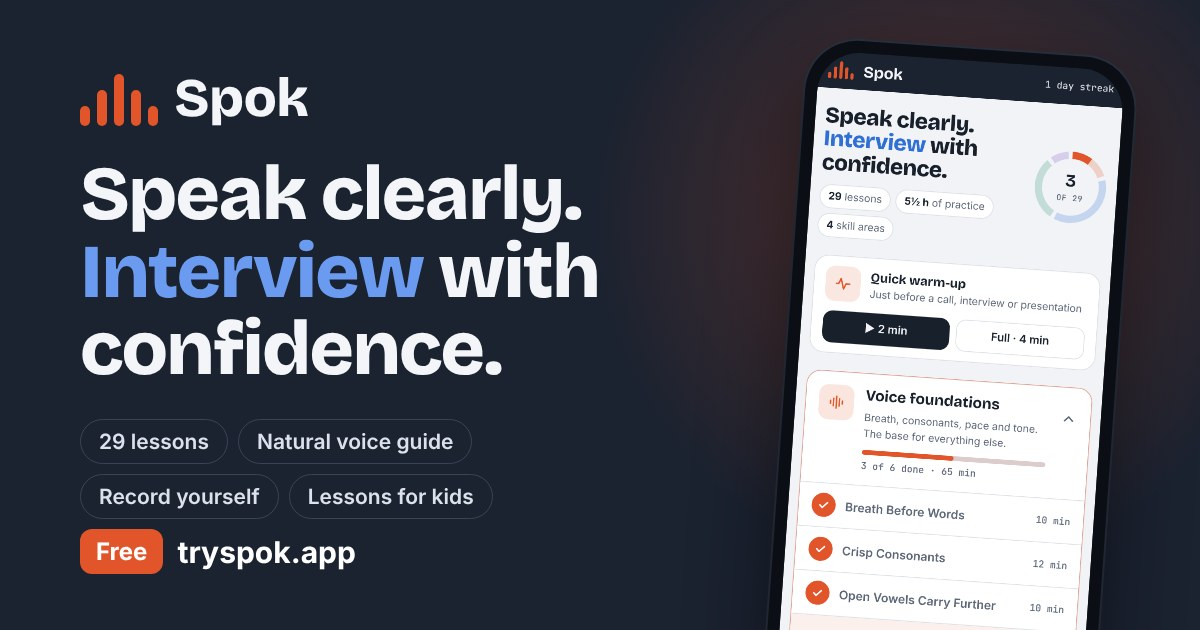
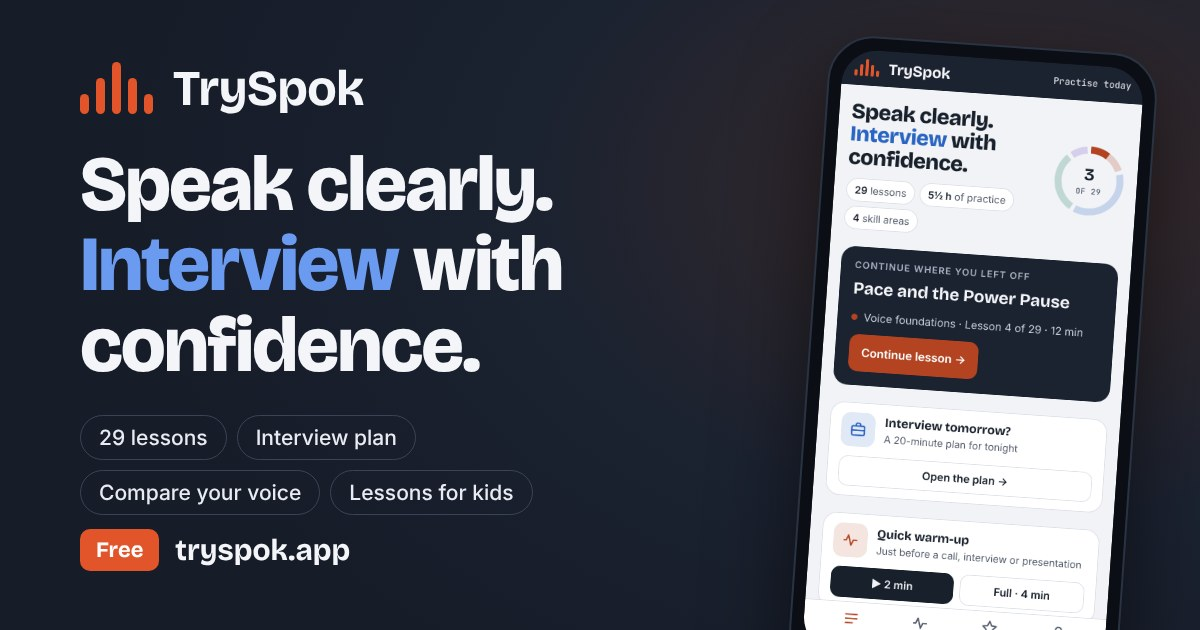
Rename the app to TrySpok
- Name, page titles, share and install metadata, in-app texts, README and tests now say TrySpok
- New share image with the new name and a current screenshot (interview plan, continue card)
- Saved progress and backup files keep their internal 'spok' keys, so nobody loses progress; offline cache bumped

Claude-Session: https://claude.ai/code/session_01KHfWjMHb52pM6n1tJq3jb4

diff --git a/index.html b/index.html
@@ -3,19 +3,19 @@
 <head>
 <meta charset="utf-8">
 <meta name="viewport" content="width=device-width, initial-scale=1, viewport-fit=cover">
-<title>Spok</title>
+<title>TrySpok</title>
 <meta name="claude:viewport-fit-sides" content="cover">
 <meta name="theme-color" content="#1B2230">
 <meta name="description" content="Free app to speak clearly and confidently in interviews and meetings: 29 lessons, a natural voice guide, self-recording and lessons for kids.">
 <meta property="og:type" content="website">
-<meta property="og:site_name" content="Spok">
-<meta property="og:title" content="Spok: speak clearly, interview with confidence">
+<meta property="og:site_name" content="TrySpok">
+<meta property="og:title" content="TrySpok: speak clearly, interview with confidence">
 <meta property="og:description" content="29 short lessons for interviews and meetings, a natural voice guide, self-recording and lessons for kids. Free, no account.">
 <meta property="og:url" content="https://tryspok.app/">
 <meta property="og:image" content="https://tryspok.app/og-image.jpg">
 <meta property="og:image:width" content="1200">
 <meta property="og:image:height" content="630">
-<meta property="og:image:alt" content="Spok app: Speak clearly. Interview with confidence.">
+<meta property="og:image:alt" content="TrySpok app: Speak clearly. Interview with confidence.">
 <meta name="twitter:card" content="summary_large_image">
 <meta name="twitter:image" content="https://tryspok.app/og-image.jpg">
 <link rel="manifest" href="manifest.json">
@@ -722,7 +722,7 @@ function rerender(draw){const y=window.scrollY;stopAll();draw();window.scrollTo(
 function topbar(back,label){
   const n=streak();
   topEl.innerHTML=(back?`<button class="back" id="back">&#8592; ${label||"Lessons"}</button>`:
-   `<div class="logo" aria-hidden="true"><i style="height:8px"></i><i style="height:15px"></i><i style="height:22px"></i><i style="height:15px"></i><i style="height:8px"></i></div><div class="brand">Spok</div>`)+
+   `<div class="logo" aria-hidden="true"><i style="height:8px"></i><i style="height:15px"></i><i style="height:22px"></i><i style="height:15px"></i><i style="height:8px"></i></div><div class="brand">TrySpok</div>`)+
    `<div class="spacer"></div><div class="streak">${n===0?"Practise today":n===1?"1 day streak":n+" day streak"}</div>`;
   if(back) $("#back").onclick=()=>go(back===true?"home":back);
 }
@@ -944,24 +944,24 @@ const IN_APP=/FBAN|FBAV|FB_IAB|Instagram|Messenger|LinkedInApp|Snapchat|TikTok|L
 const IN_FRAME=(()=>{try{return window.top!==window.self;}catch(e){return true;}})();
 const STANDALONE=(()=>{try{return matchMedia("(display-mode: standalone)").matches||navigator.standalone===true;}catch(e){return false;}})();
 function micHelp(kind){
-  if(kind==="frame") return "The microphone is blocked in this preview. Open Spok from its own website (for example tryspok.app) to record yourself.";
+  if(kind==="frame") return "The microphone is blocked in this preview. Open TrySpok from its own website (for example tryspok.app) to record yourself.";
   if(kind==="inapp") return IS_IOS
     ? "This app's built-in browser blocks the microphone. Tap ⋯ or the share icon and choose \"Open in Safari\", then try again."
     : "This app's built-in browser blocks the microphone. Tap ⋮ and choose \"Open in Chrome\", then try again.";
   if(kind==="denied") return IS_IOS
     ? (STANDALONE
-      ? "Microphone access is off. Open Settings → Safari → Microphone and choose Ask or Allow. Then close Spok completely and open it again."
+      ? "Microphone access is off. Open Settings → Safari → Microphone and choose Ask or Allow. Then close TrySpok completely and open it again."
       : "Microphone access is off. In Safari, tap \"aA\" in the address bar → Website Settings → Microphone → Allow. Or open Settings → Safari → Microphone → Allow. Then reload the page.")
     : IS_ANDROID
       ? "Microphone access is off. Tap the icon to the left of the address → Permissions → Microphone → Allow. If that doesn't help, open Settings → Apps → Chrome → Permissions → Microphone → Allow. Then reload."
       : "Microphone access is off. Click the icon to the left of the address, allow the microphone, then reload the page.";
   if(kind==="busy") return "The microphone is busy in another app. End any call or voice recording, then try again.";
   if(kind==="none") return "No microphone was found on this device.";
-  if(kind==="insecure") return "Recording needs a secure https address. Open Spok from its https website.";
+  if(kind==="insecure") return "Recording needs a secure https address. Open TrySpok from its https website.";
   if(kind==="unsupported") return IS_IOS
     ? "This version of iOS can't record in the browser. Update iOS (14.5 or later), or use Voice Memos alongside the timer."
     : "This browser can't record audio. Use the latest Chrome, or your phone's voice recorder alongside the timer.";
-  return "The microphone didn't start. Close other apps using it, reload Spok and try again.";
+  return "The microphone didn't start. Close other apps using it, reload TrySpok and try again.";
 }
 // Why recording can't start, or null if it can.
 function micPrecheck(){
@@ -1410,17 +1410,17 @@ function about(){
         <label for="fname" class="tip">Your name (optional)</label>
         <input id="fname" class="vsel" autocomplete="name">
         <label for="fmsg" class="tip">Message</label>
-        <textarea id="fmsg" placeholder="What would make Spok better for you?"></textarea>
+        <textarea id="fmsg" placeholder="What would make TrySpok better for you?"></textarea>
       </div>
       <div class="row"><button class="btn dark" id="fsend">Send by email</button><button class="btn ghost small" id="fcopy">Copy message</button></div>
       <p class="tip" id="fstat" aria-live="polite"></p>
     </div>
-    <div class="card support"><h2 class="eyebrow">Support Spok</h2>
-      <p>Spok is free, with no ads and no account. If it helped you before an interview or a big meeting, you can support my personal projects.</p>
+    <div class="card support"><h2 class="eyebrow">Support TrySpok</h2>
+      <p>TrySpok is free, with no ads and no account. If it helped you before an interview or a big meeting, you can support my personal projects.</p>
       ${A.donate?`<div class="row"><a class="btn primary" href="${esc(A.donate)}" target="_blank" rel="noopener">${esc(A.donateLabel)} ↗</a></div>`
-        :`<p class="tip">A donation link is coming soon. Until then, sharing Spok with a friend helps a lot.</p>`}
+        :`<p class="tip">A donation link is coming soon. Until then, sharing TrySpok with a friend helps a lot.</p>`}
     </div>
-    <p class="tip">Spok ${APP_VERSION} · Works offline once installed · Progress stays on your device · Voice generated with Kokoro (Apache 2.0)</p>
+    <p class="tip">TrySpok ${APP_VERSION} · Works offline once installed · Progress stays on your device · Voice generated with Kokoro (Apache 2.0)</p>
   </section>`;
   const bstat=t=>$("#bstat").textContent=t;
   $("#bsave").onclick=()=>{try{
@@ -1432,17 +1432,17 @@ function about(){
   $("#bpick").onclick=()=>$("#bload").click();
   $("#bload").onchange=async e=>{const f=e.target.files&&e.target.files[0];e.target.value="";if(!f)return;
     try{const d=JSON.parse(await f.text()), st=d&&d.app==="spok"&&d.state;
-      if(!st||typeof st!=="object"||!Array.isArray(st.days)) throw new Error("not a Spok backup");
+      if(!st||typeof st!=="object"||!Array.isArray(st.days)) throw new Error("not a TrySpok backup");
       if(!confirm("Replace the progress on this device with the backup?")) return;
       state=normalizeState(st);save();about();bstat("Progress restored.");
-    }catch(err){bstat("That file isn't a Spok backup. Choose the .json file saved from Spok.");}};
-  const msg=()=>{const t=$("#ftype").value,n=$("#fname").value.trim(),m=$("#fmsg").value.trim();return {t,n,m,body:`Topic: ${t}\n${n?"From: "+n+"\n":""}\n${m}\n\n— sent from Spok ${APP_VERSION}`};};
+    }catch(err){bstat("That file isn't a TrySpok backup. Choose the .json file saved from TrySpok.");}};
+  const msg=()=>{const t=$("#ftype").value,n=$("#fname").value.trim(),m=$("#fmsg").value.trim();return {t,n,m,body:`Topic: ${t}\n${n?"From: "+n+"\n":""}\n${m}\n\n— sent from TrySpok ${APP_VERSION}`};};
   const stat=t=>$("#fstat").textContent=t;
   const copy=async(text,ok)=>{try{await navigator.clipboard.writeText(text);stat(ok);}catch(e){stat("Copy didn't work here. Select the text and copy it manually.");}};
   if($("#cmail")) $("#cmail").onclick=()=>copy(A.email,"Email address copied.");
   $("#fsend").onclick=()=>{const x=msg(); if(!x.m){stat("Write a message first.");$("#fmsg").focus();return;}
     if(!A.email){copy(x.body,"Message copied.");return;}
-    location.href=`mailto:${A.email}?subject=${encodeURIComponent("Spok feedback: "+x.t)}&body=${encodeURIComponent(x.body)}`;
+    location.href=`mailto:${A.email}?subject=${encodeURIComponent("TrySpok feedback: "+x.t)}&body=${encodeURIComponent(x.body)}`;
     stat(`Your email app should open with the message ready. If it doesn't, tap "Copy message" and send it to ${A.email}.`);};
   $("#fcopy").onclick=()=>{const x=msg(); if(!x.m){stat("Write a message first.");return;} copy(x.body,`Message copied. Paste it into an email to ${A.email}.`);};
 }
@@ -1466,7 +1466,7 @@ function route(){
   window.scrollTo(0,0);
   // name the page and move screen-reader focus to its heading (not on first load)
   const h1=app.querySelector("h1"), name=h1?h1.textContent.replace(/\s+/g," ").trim():"";
-  document.title=h==="home"||!h||!name?"Spok: speak clearly, interview with confidence":name+" · Spok";
+  document.title=h==="home"||!h||!name?"TrySpok: speak clearly, interview with confidence":name+" · TrySpok";
   if(routed&&h1){h1.tabIndex=-1;h1.focus({preventScroll:true});}
   app.dataset.route=h||"home"; // which page is on screen (used by the tests)
   routed=true;

diff --git a/sw.js b/sw.js
@@ -1,4 +1,4 @@
-const CACHE = 'spok-v11';
+const CACHE = 'spok-v12';
 const ASSETS = ['./', './index.html', './manifest.json', './icon-192.png', './icon-512.png',
   './audio/k1-1.mp3','./audio/k1-2.mp3','./audio/k1-3.mp3','./audio/k1-4.mp3','./audio/k1-5.mp3','./audio/k10-1.mp3','./audio/k10-2.mp3','./audio/k10-3.mp3','./audio/k10-4.mp3','./audio/k10-5.mp3','./audio/k11-1.mp3','./audio/k11-2.mp3','./audio/k11-3.mp3','./audio/k11-4.mp3','./audio/k11-5.mp3','./audio/k12-1.mp3','./audio/k12-2.mp3','./audio/k12-3.mp3','./audio/k12-4.mp3','./audio/k12-5.mp3','./audio/k2-1.mp3','./audio/k2-2.mp3','./audio/k2-3.mp3','./audio/k2-4.mp3','./audio/k2-5.mp3','./audio/k3-1.mp3','./audio/k3-2.mp3','./audio/k3-3.mp3','./audio/k3-4.mp3','./audio/k3-5.mp3','./audio/k4-1.mp3','./audio/k4-2.mp3','./audio/k4-3.mp3','./audio/k4-4.mp3','./audio/k4-5.mp3','./audio/k5-1.mp3','./audio/k5-2.mp3','./audio/k5-3.mp3','./audio/k5-4.mp3','./audio/k5-5.mp3','./audio/k6-1.mp3','./audio/k6-2.mp3','./audio/k6-3.mp3','./audio/k6-4.mp3','./audio/k6-5.mp3','./audio/k7-1.mp3','./audio/k7-2.mp3','./audio/k7-3.mp3','./audio/k7-4.mp3','./audio/k7-5.mp3','./audio/k8-1.mp3','./audio/k8-2.mp3','./audio/k8-3.mp3','./audio/k8-4.mp3','./audio/k8-5.mp3','./audio/k9-1.mp3','./audio/k9-2.mp3','./audio/k9-3.mp3','./audio/k9-4.mp3','./audio/k9-5.mp3','./audio/ki1.mp3','./audio/ki10.mp3','./audio/ki11.mp3','./audio/ki12.mp3','./audio/ki2.mp3','./audio/ki3.mp3','./audio/ki4.mp3','./audio/ki5.mp3','./audio/ki6.mp3','./audio/ki7.mp3','./audio/ki8.mp3','./audio/ki9.mp3','./audio/kt1.mp3','./audio/kt10.mp3','./audio/kt11.mp3','./audio/kt12.mp3','./audio/kt2.mp3','./audio/kt3.mp3','./audio/kt4.mp3','./audio/kt5.mp3','./audio/kt6.mp3','./audio/kt7.mp3','./audio/kt8.mp3','./audio/kt9.mp3','./audio/l1-1.mp3','./audio/l1-2.mp3','./audio/l1-3.mp3','./audio/l1-4.mp3','./audio/l1-5.mp3','./audio/l10-1.mp3','./audio/l10-2.mp3','./audio/l10-3.mp3','./audio/l10-4.mp3','./audio/l10-5.mp3','./audio/l11-1.mp3','./audio/l11-2.mp3','./audio/l11-3.mp3','./audio/l11-4.mp3','./audio/l11-5.mp3','./audio/l12-1.mp3','./audio/l12-2.mp3','./audio/l12-3.mp3','./audio/l12-4.mp3','./audio/l12-5.mp3','./audio/l13-1.mp3','./audio/l13-2.mp3','./audio/l13-3.mp3','./audio/l13-4.mp3','./audio/l13-5.mp3','./audio/l14-1.mp3','./audio/l14-2.mp3','./audio/l14-3.mp3','./audio/l14-4.mp3','./audio/l14-5.mp3','./audio/l15-1.mp3','./audio/l15-2.mp3','./audio/l15-3.mp3','./audio/l15-4.mp3','./audio/l15-5.mp3','./audio/l16-1.mp3','./audio/l16-2.mp3','./audio/l16-3.mp3','./audio/l16-4.mp3','./audio/l16-5.mp3','./audio/l17-1.mp3','./audio/l17-2.mp3','./audio/l17-3.mp3','./audio/l17-4.mp3','./audio/l17-5.mp3','./audio/l18-1.mp3','./audio/l18-2.mp3','./audio/l18-3.mp3','./audio/l18-4.mp3','./audio/l18-5.mp3','./audio/l19-1.mp3','./audio/l19-2.mp3','./audio/l19-3.mp3','./audio/l19-4.mp3','./audio/l19-5.mp3','./audio/l2-1.mp3','./audio/l2-2.mp3','./audio/l2-3.mp3','./audio/l2-4.mp3','./audio/l2-5.mp3','./audio/l20-1.mp3','./audio/l20-2.mp3','./audio/l20-3.mp3','./audio/l20-4.mp3','./audio/l20-5.mp3','./audio/l21-1.mp3','./audio/l21-2.mp3','./audio/l21-3.mp3','./audio/l21-4.mp3','./audio/l21-5.mp3','./audio/l22-1.mp3','./audio/l22-2.mp3','./audio/l22-3.mp3','./audio/l22-4.mp3','./audio/l22-5.mp3','./audio/l23-1.mp3','./audio/l23-2.mp3','./audio/l23-3.mp3','./audio/l23-4.mp3','./audio/l23-5.mp3','./audio/l24-1.mp3','./audio/l24-2.mp3','./audio/l24-3.mp3','./audio/l24-4.mp3','./audio/l24-5.mp3','./audio/l25-1.mp3','./audio/l25-2.mp3','./audio/l25-3.mp3','./audio/l25-4.mp3','./audio/l25-5.mp3','./audio/l26-1.mp3','./audio/l26-2.mp3','./audio/l26-3.mp3','./audio/l26-4.mp3','./audio/l26-5.mp3','./audio/l27-1.mp3','./audio/l27-2.mp3','./audio/l27-3.mp3','./audio/l27-4.mp3','./audio/l27-5.mp3','./audio/l28-1.mp3','./audio/l28-2.mp3','./audio/l28-3.mp3','./audio/l28-4.mp3','./audio/l28-5.mp3','./audio/l29-1.mp3','./audio/l29-2.mp3','./audio/l29-3.mp3','./audio/l29-4.mp3','./audio/l29-5.mp3','./audio/l3-1.mp3','./audio/l3-2.mp3','./audio/l3-3.mp3','./audio/l3-4.mp3','./audio/l3-5.mp3','./audio/l4-1.mp3','./audio/l4-2.mp3','./audio/l4-3.mp3','./audio/l4-4.mp3','./audio/l4-5.mp3','./audio/l5-1.mp3','./audio/l5-2.mp3','./audio/l5-3.mp3','./audio/l5-4.mp3','./audio/l5-5.mp3','./audio/l6-1.mp3','./audio/l6-2.mp3','./audio/l6-3.mp3','./audio/l6-4.mp3','./audio/l6-5.mp3','./audio/l7-1.mp3','./audio/l7-2.mp3','./audio/l7-3.mp3','./audio/l7-4.mp3','./audio/l7-5.mp3','./audio/l8-1.mp3','./audio/l8-2.mp3','./audio/l8-3.mp3','./audio/l8-4.mp3','./audio/l8-5.mp3','./audio/l9-1.mp3','./audio/l9-2.mp3','./audio/l9-3.mp3','./audio/l9-4.mp3','./audio/l9-5.mp3','./audio/p1-a1.mp3','./audio/p1-a2.mp3','./audio/p1-a3.mp3','./audio/p1-b1.mp3','./audio/p1-b2.mp3','./audio/p1-b3.mp3','./audio/p1-s.mp3','./audio/p1-w1.mp3','./audio/p1-w2.mp3','./audio/p1-w3.mp3','./audio/p1-w4.mp3','./audio/p1-w5.mp3','./audio/p10-s.mp3','./audio/p10-w1.mp3','./audio/p10-w2.mp3','./audio/p10-w3.mp3','./audio/p10-w4.mp3','./audio/p10-w5.mp3','./audio/p2-a1.mp3','./audio/p2-a2.mp3','./audio/p2-a3.mp3','./audio/p2-b1.mp3','./audio/p2-b2.mp3','./audio/p2-b3.mp3','./audio/p2-s.mp3','./audio/p2-w1.mp3','./audio/p2-w2.mp3','./audio/p2-w3.mp3','./audio/p2-w4.mp3','./audio/p2-w5.mp3','./audio/p3-a1.mp3','./audio/p3-a2.mp3','./audio/p3-a3.mp3','./audio/p3-b1.mp3','./audio/p3-b2.mp3','./audio/p3-b3.mp3','./audio/p3-s.mp3','./audio/p3-w1.mp3','./audio/p3-w2.mp3','./audio/p3-w3.mp3','./audio/p3-w4.mp3','./audio/p3-w5.mp3','./audio/p4-a1.mp3','./audio/p4-a2.mp3','./audio/p4-a3.mp3','./audio/p4-b1.mp3','./audio/p4-b2.mp3','./audio/p4-b3.mp3','./audio/p4-s.mp3','./audio/p4-w1.mp3','./audio/p4-w2.mp3','./audio/p4-w3.mp3','./audio/p4-w4.mp3','./audio/p4-w5.mp3','./audio/p5-s.mp3','./audio/p5-w1.mp3','./audio/p5-w2.mp3','./audio/p5-w3.mp3','./audio/p5-w4.mp3','./audio/p5-w5.mp3','./audio/p6-a1.mp3','./audio/p6-a2.mp3','./audio/p6-a3.mp3','./audio/p6-b1.mp3','./audio/p6-b2.mp3','./audio/p6-b3.mp3','./audio/p6-s.mp3','./audio/p6-w1.mp3','./audio/p6-w2.mp3','./audio/p6-w3.mp3','./audio/p6-w4.mp3','./audio/p6-w5.mp3','./audio/p7-a1.mp3','./audio/p7-a2.mp3','./audio/p7-a3.mp3','./audio/p7-b1.mp3','./audio/p7-b2.mp3','./audio/p7-b3.mp3','./audio/p7-s.mp3','./audio/p7-w1.mp3','./audio/p7-w2.mp3','./audio/p7-w3.mp3','./audio/p7-w4.mp3','./audio/p7-w5.mp3','./audio/p8-s.mp3','./audio/p8-w1.mp3','./audio/p8-w2.mp3','./audio/p8-w3.mp3','./audio/p8-w4.mp3','./audio/p8-w5.mp3','./audio/p9-s.mp3','./audio/p9-w1.mp3','./audio/p9-w2.mp3','./audio/p9-w3.mp3','./audio/p9-w4.mp3','./audio/p9-w5.mp3','./audio/p9-w6.mp3','./audio/w1.mp3','./audio/w2.mp3','./audio/w3.mp3','./audio/w4.mp3','./audio/w5.mp3','./audio/w6.mp3','./audio/w7.mp3'];
 

diff --git a/tests/e2e.test.js b/tests/e2e.test.js
@@ -64,7 +64,7 @@ test("every page renders with a heading, a title and no errors, without sideways
     const info = await page.evaluate(() => ({ h1: document.querySelector("#app h1")?.textContent, w: document.documentElement.scrollWidth, title: document.title }));
     assert.ok(info.h1, `${r}: no heading`);
     assert.ok(info.w <= 360, `${r}: page is ${info.w}px wide`);
-    assert.ok(info.title.includes("Spok"), `${r}: title "${info.title}"`);
+    assert.ok(info.title.includes("TrySpok"), `${r}: title "${info.title}"`);
   }
   await go(page, "lesson-99");
   assert.ok(await page.$("#cont"), "an unknown address shows the home page");
@@ -368,7 +368,7 @@ test("backup: save a file and restore it on a fresh device", async () => {
   const bad = path.join(path.dirname(file), "not-spok.json");
   fs.writeFileSync(bad, '{"hello":1}');
   await fresh.setInputFiles("#bload", bad);
-  await fresh.waitForFunction(() => /isn't a Spok backup/.test(document.querySelector("#bstat").textContent));
+  await fresh.waitForFunction(() => /isn't a TrySpok backup/.test(document.querySelector("#bstat").textContent));
   assert.deepStrictEqual((await stored(fresh)).done, { 0: true, 5: true });
   assert.deepStrictEqual(fresh.errors, []);
 });

diff --git a/tools/generate_voice.py b/tools/generate_voice.py
@@ -1,5 +1,5 @@
 #!/usr/bin/env python3
-"""Generate the natural "Heart" voice clips for Spok's drill lines.
+"""Generate the natural "Heart" voice clips for TrySpok's drill lines.
 
 Every drill line in index.html (adult lessons: l<lesson>-<line>, kids lessons:
 k<lesson>-<line>) can have a recorded clip in audio/ plus word start times in

diff --git a/README.md b/README.md
@@ -1,4 +1,4 @@
-# Spok
+# TrySpok
 
 Free voice and interview practice app: 29 short lessons, a 20-minute "interview tomorrow" plan, a warm-up, lessons for kids and pronunciation games for Romanian children. Every practice line can be recorded and compared with the model voice, back to back. It is a static web app (one `index.html`, a service worker for offline use and the recorded "Heart" voice clips in `audio/`), so any static host can serve it.
 
